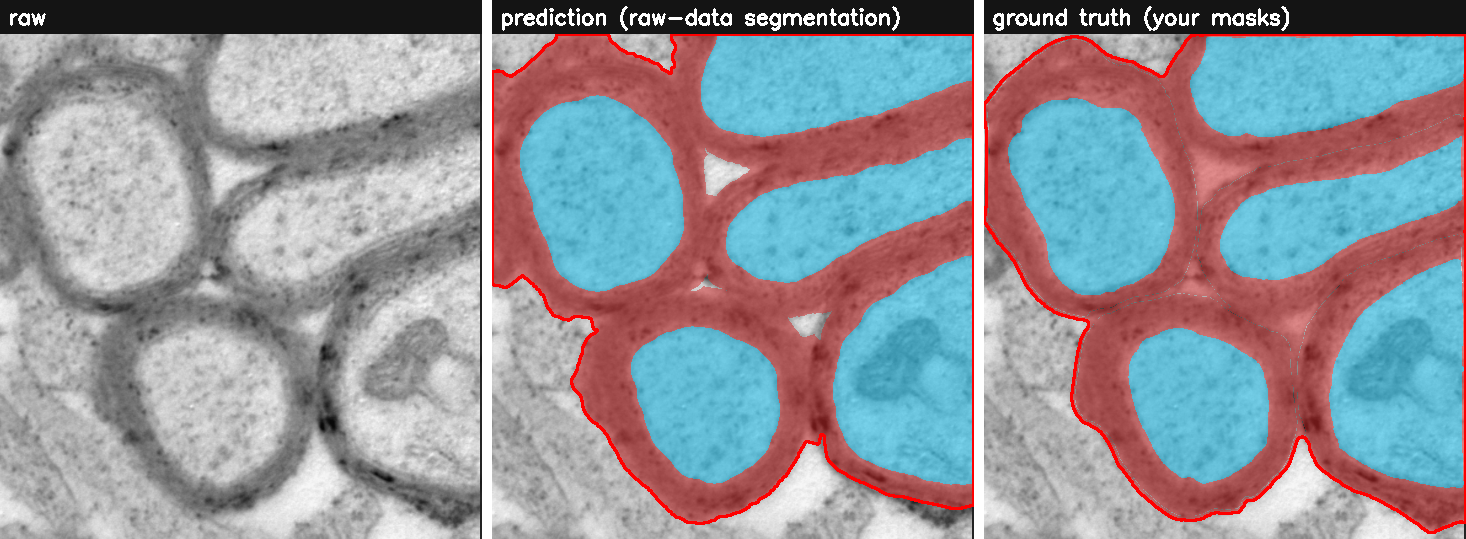
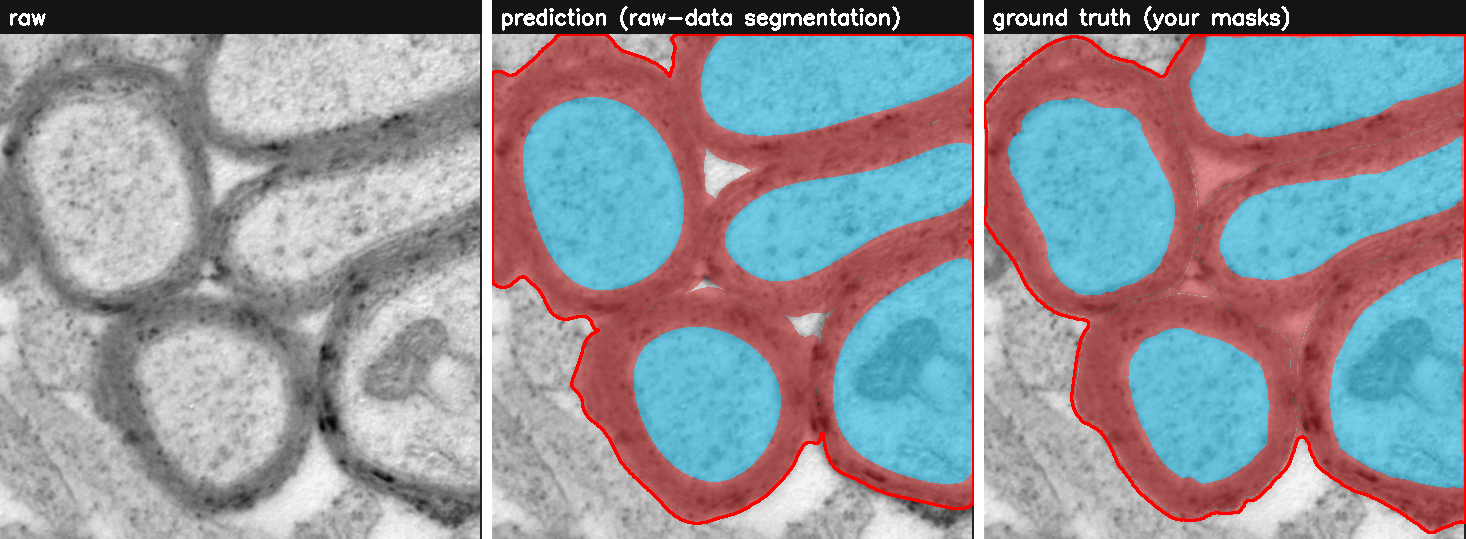
Re-enable outer-border spline with more control points than the inner (R29)
Owner review: sample_03's borders looked degraded vs the July-1 (1b3cfcc) render
even though its IoU is actually slightly better now (0.813->0.820). Cause: I had
turned the boundary spline OFF in R24 because a SINGLE tolerance (shared axon+
fibre) over-rounded sample_03's thin elongated fibres.

Fix (owner's insight): the spline's control-point count grows as the tolerance
shrinks (splprep knots satisfy residual sum <= n*tol^2). The outer myelin outline
is longer and more undulating than the compact axon body, so it needs many more
curves. Now border_smooth_tol=2.0 smooths the INNER (axon) border and a separate
border_smooth_tol_fiber=0.5 gives the OUTER (fibre) border ~16x more control
points -- de-staircases it into a clean curve WITHOUT rounding real shape.

Applied AFTER the dense-extend, so the R27/R28 improvements are kept and the
July-1 smooth-border look is restored. IoU neutral (mean axon 0.933, myelin 0.845,
fiber 0.947; sample_03 0.817), recall 1.00/1.00, 38 tests pass.

diff --git a/gratio/pipeline.py b/gratio/pipeline.py
@@ -113,10 +113,13 @@ DEFAULTS = dict(
     fiber_smooth_frac=0.2,    # smooth the fibre outer bound (open then close) by this fraction of the
                               # axon radius, so it is a clean rounded envelope like a hand tracing
                               # instead of a spiky outline that reaches into the extracellular space
-    border_smooth_tol=0,      # final pass: refit axon+fibre borders as smooth curves within this many px
-                              # (least-squares spline; removes pixel staircase without shrinking). 0 = off.
-                              # Off by default: the morphological smoothing already gives clean rounded
-                              # borders, and the extra spline refit cost a little IoU on the hand masks.
+    border_smooth_tol=2.0,    # final pass: refit the INNER (axon) border as a smooth spline within this
+                              # many px (least-squares periodic spline; removes the pixel staircase
+                              # without shrinking). Larger tol -> fewer control points -> smoother.
+    border_smooth_tol_fiber=0.5,  # SEPARATE, tighter tol for the OUTER (fibre) border -> many more
+                              # control points, so its longer/undulating outline is de-staircased
+                              # without the shape-rounding that a shared (axon) tol caused on sample_03.
+                              # None -> use border_smooth_tol.
     border_min_radius=6.0,    # ...but do not refit a region whose equivalent radius is below this (px)
     bubble_min_frac=0.02,     # a hole counts as a bubble if >= this fraction of the axon
     bubble_min_px=250,        # ...and at least this many pixels
@@ -666,14 +669,20 @@ def segment(gray: np.ndarray, **overrides) -> dict:
             a['area'], a['myelin_area'] = A_ax, A_my
             a['g'] = float(np.sqrt(A_ax / (A_ax + A_my))) if A_ax + A_my > 0 else float('nan')
 
-    # final polish: refit each axon + fibre border as a smooth curve (vector-like,
-    # hand-tracing look) without shrinking; bubbles stay excluded from myelin.
+    # final polish: refit each axon + fibre border as a smooth spline curve (vector-like,
+    # hand-tracing look) without shrinking; bubbles stay excluded from myelin. The OUTER
+    # (fibre) border gets a SEPARATE, tighter tolerance than the inner (axon) one: the
+    # spline's control-point count grows as the tolerance shrinks (knots satisfy sum of
+    # squared residuals <= n*tol^2), and the myelin outline is longer and more undulating
+    # than the compact axon body, so it needs many more curves to smooth the pixel
+    # staircase without rounding off real shape (as one shared tolerance did to sample_03).
     if P['border_smooth_tol'] > 0 and axons:
         sa = np.zeros((H, W), np.int32)
         sf = np.zeros((H, W), np.int32)
+        ftol = P['border_smooth_tol_fiber'] or P['border_smooth_tol']
         for a in axons:
             fs = fit_smooth_border(fiber_mask == a['id'],
-                                   P['border_smooth_tol'], P['border_min_radius'])
+                                   ftol, P['border_min_radius'])
             as_ = fit_smooth_border(axon_mask == a['id'],
                                     P['border_smooth_tol'], P['border_min_radius']) & fs
             sf[fs] = a['id']

diff --git a/docs/reference/continuation.md b/docs/reference/continuation.md
@@ -54,7 +54,7 @@ Diagnostics used during tuning (kept for reference):
 | `axon_otsu_bias` | 10 | per-fibre Otsu peel places the axolemma at the true inner-myelin edge — R13 |
 | `axon_smooth_frac` | 0.6 | smooth the axon border into a simple curve — R13 |
 | `fiber_smooth_frac` | 0.2 | smooth the fibre outer envelope, remove spikes — R15 |
-| `border_smooth_tol` / `border_min_radius` | 2.0 / 6.0 | final Bézier-style curve refit (no shrink; protects tiny axons) — R14 |
+| `border_smooth_tol` / `border_smooth_tol_fiber` / `border_min_radius` | 2.0 / 0.5 / 6.0 | final spline curve refit (no shrink; protects tiny axons). The OUTER (fibre) border uses a **tighter** tol → many more control points, since the myelin outline is longer/undulating and one shared tol rounded off sample_03's elongated fibres — R14/**R29** |
 | `remove_scalebar` | True | detect + inpaint the "200 nm" ruler, but only in clean background — R22/R12 |
 
 Note: the remaining px values (`speckle_min`, `close_fiber`, `myelin_close`,
